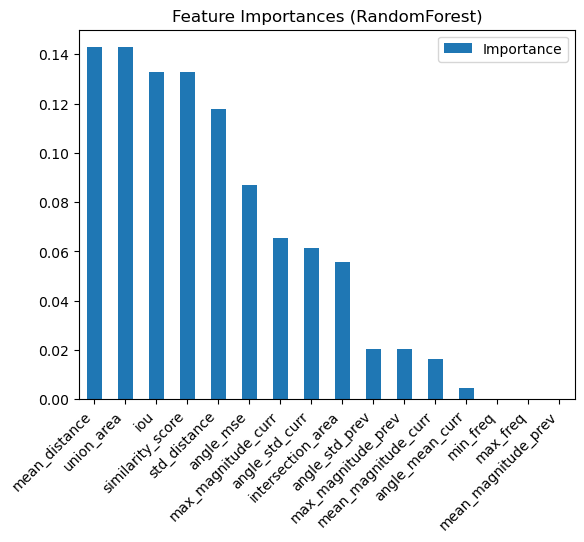
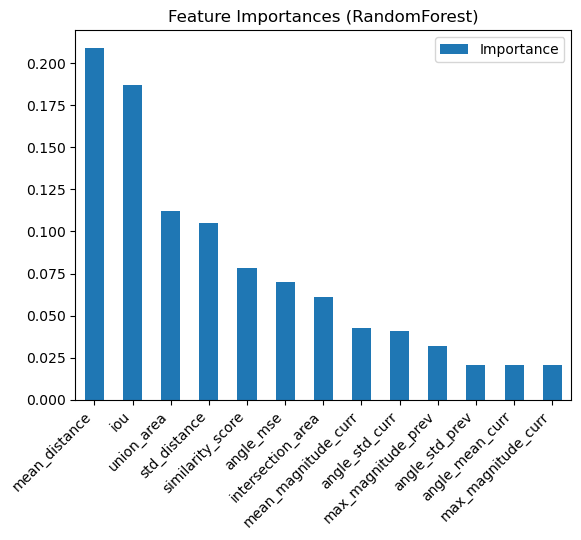
Add comments to clarify functions in Python files.

Changed region(s): [[0.0, 0.0, 0.9914, 0.9778]]

diff --git a/model_train.py b/model_train.py
@@ -7,13 +7,10 @@ from sklearn.ensemble import RandomForestClassifier
 from sklearn.metrics import accuracy_score, confusion_matrix, classification_report
 from sklearn.model_selection import GridSearchCV
 from sklearn.svm import SVC
-from glass_cut_analysis import  GlassCutAnalysis
-from shape_analyzer import  ShaperAnalysis
 import  numpy as np
-from  utils.file_loader import  load_data
 
+class ModelTrainer:  # ModelTrainer sınıfı, makine öğrenimi modellerinin eğitim, değerlendirme ve tahmin süreçlerini yönetir.
 
-class ModelTrainer:
     def __init__(self, output_dir, model_choice):
         """
         ModelTrainer sınıfı, model eğitim ve değerlendirme işlemleri için kullanılır.
@@ -27,7 +24,7 @@ class ModelTrainer:
         if not os.path.exists(self.output_dir):
             os.makedirs(self.output_dir)
 
-    @staticmethod
+    @staticmethod # Veriyi işler, özellikler ve hedef değişkeni ayırır.
     def preprocess_data(data):
         """
         Veriyi işler, özellikler ve hedef değişkeni ayırır.
@@ -36,6 +33,9 @@ class ModelTrainer:
         # 'filename' sütununu veri setinden kaldır
         if 'file_name' in data.columns:
             data = data.drop(columns=['file_name'])
+            data = data.drop(columns=['min_freq'])
+            data = data.drop(columns=['max_freq'])
+            data = data.drop(columns=['mean_magnitude_prev'])
 
         # Tüm sayısal sütunları al
         numeric_columns = data.select_dtypes(include=[float, int]).columns.tolist()
@@ -52,15 +52,15 @@ class ModelTrainer:
 
         return X, y
 
-
-
-    @staticmethod
+    @staticmethod # Veriyi eğitim ve test setlerine böler.
     def split_data(X, y, test_size=0.2, random_state=42):
         """
         Veriyi eğitim ve test setlerine böler.
         """
         return train_test_split(X, y, test_size=test_size, random_state=random_state)
 
+    # GridSearchCV ile modelin hiperparametrelerini optimize eder.
+    # En iyi parametreleri belirler ve modeli günceller.
     def tune_model(self, X_train, y_train):
         """
         GridSearchCV ile modelin hiperparametrelerini optimize eder.
@@ -89,6 +89,7 @@ class ModelTrainer:
         self.model = grid_search.best_estimator_
         print(f"En iyi model parametreleri: {grid_search.best_params_}")
 
+    # Seçilen modelle eğitim yapar.
     def train_model(self, X_train, y_train):
         """
         Modeli eğitir. RandomForest veya SVM modeline göre eğitim yapar.
@@ -105,8 +106,7 @@ class ModelTrainer:
         self.model.fit(X_train, y_train)
         print("Model eğitimi tamamlandı.")
 
-
-
+    # Doğruluk, Confusion Matrix ve Classification Report sunar.
     def evaluate_model(self, X_test, y_test):
         """
         Eğitilen modeli test eder ve performansı değerlendirir.
@@ -138,6 +138,7 @@ class ModelTrainer:
 
         return accuracy
 
+    # Modelin özellikler üzerindeki önemini analiz eder.
     def feature_importance(self, X_train, y_train):
         """
         Modelin hangi özelliklere daha çok önem verdiğini analiz eder.
@@ -190,6 +191,7 @@ class ModelTrainer:
         else:
             print("Özellik önemi analizi, yalnızca RandomForest veya SVM için desteklenmektedir.")
 
+    # Veriyi ön işler, böler, modeli eğitir ve değerlendirir.
     def run_training(self, data):
         """
         Model eğitim ve değerlendirme adımlarını çalıştırır.
@@ -204,6 +206,8 @@ class ModelTrainer:
         if X_train.empty or y_train.empty:
             raise ValueError("Eğitim verisi boş. Lütfen verinizi kontrol edin.")
 
+        # Modelin hiperparametrelerini optimize et
+        self.tune_model(X_train, y_train)
         # Modeli eğit
         self.train_model(X_train, y_train)
 
@@ -213,6 +217,7 @@ class ModelTrainer:
         # Modeli değerlendir
         return self.evaluate_model(X_test, y_test)
 
+    # Modeli K-Fold çapraz doğrulama ile değerlendirir.
     def cross_validate(self, X, y, cv=5):
         """
         Modeli K-Fold çapraz doğrulama ile değerlendirir.
@@ -222,6 +227,7 @@ class ModelTrainer:
         print(f"\n{cv}-Fold Cross Validation Accuracy Scores: {scores}")
         print(f"Ortalama Doğruluk: {scores.mean():.2f}")
 
+    # Yeni verilerle tahmin yapar ve sonuçları CSV dosyasına kaydeder.
     def predict(self, features_list):
         """
         Yeni verilerle tahmin yapar ve sonuçları CSV dosyasına kaydeder.

diff --git a/utils/file_loader.py b/utils/file_loader.py
@@ -1,21 +1,21 @@
 import pandas as pd
 import os
 
-class FileLoader:
+class FileLoader:   # Bu sınıf, belirtilen dizindeki CSV dosyalarını yükler ve belirli dosyaları atlar.
     def __init__(self, directory):
         """Belirtilen klasördeki tüm CSV ve XLSX dosyalarını alır, ancak 'analysis_results.csv' dosyasını atlar."""
         self.directory = directory
-        self.file_paths = self.get_file_paths()
+        self.file_paths = self.get_file_paths() # Bu sınıf, belirtilen dizindeki CSV ve XLSX dosyalarını yükler ve belirli dosyaları atlar.
 
+    # Klasördeki tüm CSV dosyalarının tam yollarını döndürür
     def get_file_paths(self):
-        """Klasördeki tüm CSV ve XLSX dosya yollarını döndürür, 'analiz.csv' dosyasını atlar."""
         file_paths = []
         for file_name in os.listdir(self.directory):  # Klasördeki tüm dosyaları listele
-            if (file_name.endswith('.csv') or file_name.endswith('.xlsx')) and (file_name != 'analysis_results.csv' and file_name !='generated_100_variations.csv'):
+            if file_name.endswith('.csv'):
                 file_paths.append(os.path.join(self.directory, file_name))  # Tam dosya yolunu ekle
         return file_paths
 
-
+# Verilen nokta stringini temizler ve bir listeye dönüştürür; geçersiz değerlerde hata mesajı verir.
 def clean_and_split_point(point_str):
     """
     Verilen string içindeki noktayı temizler ve bir listeye çevirir.
@@ -37,7 +37,7 @@ def clean_and_split_point(point_str):
         return point_list
     return None  # NaN veya geçersiz bir değer geldiğinde None döndür
 
-
+#Dosya formatına göre veri setini yükler ve "Prev" ve "Curr" noktalarını iki ayrı listeye ayırır.
 def load_data(file_path):
     """Veri setini dosya formatına göre yükler (csv veya xlsx) ve prev-curr noktalarını ayrıştırır."""
     file_ext = os.path.splitext(file_path)[1]

diff --git a/main.py b/main.py
@@ -121,7 +121,7 @@ def main():
     trainer.run_training(analysis_data)  # CSV'den yüklenen verilerle eğitimi başlat
 
     X, y = trainer.preprocess_data(analysis_data)  # Veriyi işle
-    trainer.cross_validate(X, y, cv=10)  # Çapraz doğrulamayı çalıştır
+    trainer.cross_validate(X, y, cv=5)  # Çapraz doğrulamayı çalıştır
 
     # Etiketsiz veriler üzerinde tahmin yap
 
